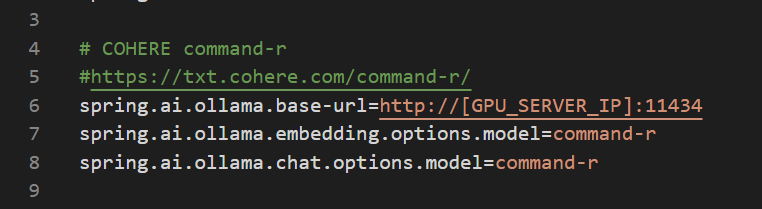
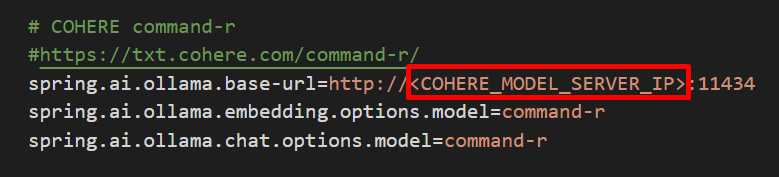
markdown final adjustments (#293)
* added markdown artifacts for the telegram bot livelab

* implemented the adjustements requested by the livelab team

* additional improvements suggested by Anoosha

* adjustement requested by Rahul Tasker

* minor improvement on the bot config step

* QUARTERLY QA ID 11418

* QUARTERLY QA ID 11418

* added springai artifacts for the oracle vector search livelab

* added adjustments after QA checks

* markdown adjustements

* markdown adjustements + database step

* markdown final adjustments

diff --git a/springai-vector/vectorsearch/vectorsearch.md b/springai-vector/vectorsearch/vectorsearch.md
@@ -71,11 +71,11 @@ The application is simple; it uses Spring Boot and the Spring AI frameworks to p
 
 The latter implements an interface provided by Spring AI that supports the ingestion of PDF files that is, the org.springframework.ai.reader.pdf.PagePdfDocumentReader interface.
 
-## Task 3: Configure the Spring AI application to use the Cohere Command-R model
+## Task 3: Configure the Spring AI application
 
-You must configure your Spring AI application to use the Cohere Command-R model. You must provide the model URL, the chat model name, and the embeddings model name.
+You must configure your Spring AI application to use the Cohere Command-R model. You must provide the model URL, the chat model name, and the embeddings model name. After that, you have to configure the JDBC connection details.
 
-1. Configure the Cohere AI model details. Navigate to `$MTDRWORKSHOP_LOCATION/backend/src/main/resources`, use a text editor (vi, vim, nano, etc) to open the application.properties file, then add the three entries below to configure the "Cohere Command-R model" parameters. Note that you have to provide the hostname [GPU_SERVER_IP] of your server where the model is located.
+1. Configure the Cohere AI model details. Navigate to `$MTDRWORKSHOP_LOCATION/backend/src/main/resources`, use a text editor (vi, vim, nano, etc) to open the application.properties file, then add the three entries below to configure the "Cohere Command-R model" parameters.
 
     ```
     <copy>
@@ -85,6 +85,37 @@ You must configure your Spring AI application to use the Cohere Command-R model.
     ```
 
     ![spring-ai-properties-cohere](images/spring-ai-cohere-model-config.png "spring ai configuration for cohere ai command-r model")
+
+2. Note that you have to provide the hostname of your server where the model is located.
+
+    ```
+    <copy>    
+    # COHERE command-r
+    #https://txt.cohere.com/command-r/
+    spring.ai.ollama.base-url=http://<COHERE_MODEL_SERVER_IP>:11434
+    spring.ai.ollama.embedding.options.model=command-r
+    spring.ai.ollama.chat.options.model=command-r
+    ```
+
+3. Configure the JDBC connection details as below. Navigate to Oracle Database -> Autonomous Transaction Processing, then select your Oracle Autonomous Database 23ai instance. Click the Database connection button.
+
+    ![jdbc-conn-info](images/jdbc-conn-info.png "jdbc connection details")
+
+4. Scroll down to the Connection strings, then copy a TNS name.
+
+    ![jdbc-conn-string-tns](images/jdbc-conn-string-tns.png "connection string tns name")
+
+5. Go to your application.properties file, and adjust the entries below accordingly.
+
+    ![jdbc-connection](images/jdbc-connection.png "jdbc connection details application dot properties")
+
+    ```
+    <copy>    
+    spring.datasource.url=jdbc:oracle:thin:@<TODO_PDB_NAME>_tp?TNS_ADMIN=/mtdrworkshop/creds
+    spring.datasource.username=VECTOR_USER
+    spring.datasource.password=<VECTOR_USER_PASSWORD>
+    ```
+6. Save the application.properties file as usual.
 
 ## Task 4: Create the VECTOR database table
 
@@ -111,8 +142,12 @@ You must conect to your database instance and create a database table with a VEC
     ```
 4. Paste it into the Worksheet page as shown below, then click the Run Statement button to execute the script.
 
-    ![db23ai-sql-ddl](images/db23ai-sql-ddl.png "db 23 ai sql ddl")
- 
+    ![db23ai-sql-ddl](images/db23ai-sql-ddl.png "db 23 ai sql ddl") 
+
+5. Provided that everything goes well, you can run a describe command to check the table details as shown below.
+
+   ![database-table](images/database-table.png "describe database table")
+
 You may now **proceed to the next lab**.
 
 ## Acknowledgements

diff --git a/springai-vector/deploy/deploy.md b/springai-vector/deploy/deploy.md
@@ -37,17 +37,29 @@ As explained in Lab 2: Oracle AI Vector Search with Spring AI and Cohere, the Sp
 
 The OCI Container Registry is where your Docker images are managed. A container registry should have been created for you in Lab 1 in your compartment.
 
-1. Run `build.sh` script to build and push the SpringBoot image into the repository
+1. First, you have to switch to Java 17, then update Maven. Execute the steps below.
+
+    ```
+    <copy>    
+    cd $MTDRWORKSHOP_LOCATION/backend
+    csruntimectl java set graalvmjdk-17
+    chmod +x *.sh
+    ./maven-upgrade.sh
+    </copy>
+    ```
+
+2. Run `build.sh` script to build and push the SpringBoot image into the repository.
 
     ```
     <copy>
     cd $MTDRWORKSHOP_LOCATION/backend
+    csruntimectl java set graalvmjdk-17
     source build.sh
     </copy>
     ```
 In a couple of minutes, you should have successfully built and pushed the images into the OCI repository.
 
-2. Check your container registry in your compartment (refresh the console if the image is not shown)
+3. Check your container registry in your compartment (refresh the console if the image is not shown)
 
     * Go to the console, click the hamburger menu in the top-left corner, and open **Developer Services > Container Registry**.
 
@@ -118,9 +130,17 @@ In a couple of minutes, you should have successfully built and pushed the images
 
     then everything looks good.
 
-5. Once your pods are up and running. Go to your web browser and navigate to load balancer IP address and add the /ragpage URI to it.
-    The application's main page will appear
-    ![Landing](images/application-1.png)    
+5. Once your pods are up and running, get the load balancer public IP address with the **services** command as explained above. Then, adjust the URL below with the target IP address.
+
+    ```
+    <copy>
+    http://<LOAD_BALANCER_PUBLIC_IP_ADDRESS>/ragpage    
+    </copy>
+    ```
+
+6. Next open your web browser and access the application with the URL in the previous step. The application's main page will appear.
+
+    ![Landing](images/application-1.png)
 
     You may now submit your prompts and interact with the Cohere Command-R model!
 

diff --git a/springai-vector/model/model.md b/springai-vector/model/model.md
@@ -27,7 +27,7 @@ In this lab, you will:
 
 1. We'll need to create an OCI Compute instance (VM) and install Ollama to run a Cohere AI's Command-R model inside of it. Then, we will expose the server and allow our Spring AI application connect to the Ollama server and make the requests to the Command-R models.
 
-The following shape and images are recommended for the LLM models server: (it will require a GPU, as we'll be running an HPC load that will require lots of computing! More than the CPU can handle at this moment without quantization enabled.)
+The following shape and images are recommended for the LLM models server: (it will require a GPU, as we'll be running an HPC load that will require lots of computing! More than the CPU can handle at this moment without quantization enabled). You check more details and other options for OCI GPU shapes at [OCI - Compute Shapes](https://docs.oracle.com/en-us/iaas/Content/Compute/References/computeshapes.htm).
 
 - Shape: `VM.GPU.A10.2` (2x NVIDIA A10 Tensor Cores)
 - OCPU: 30
@@ -141,6 +141,8 @@ docker logs -f --tail 10 ollama
 ```
 
 Both the model, for embeddings/completion will run under the same server, and they will be addressed providing in the REST request for the specific model required.
+
+Last, if you face an error such as "Error: timed out waiting for llama runner to start - progress 0.00", just execute the respective target model above once again, and it will start with no issues at all.
 
 ## Task 2. Configure security for your private LLM models
 
